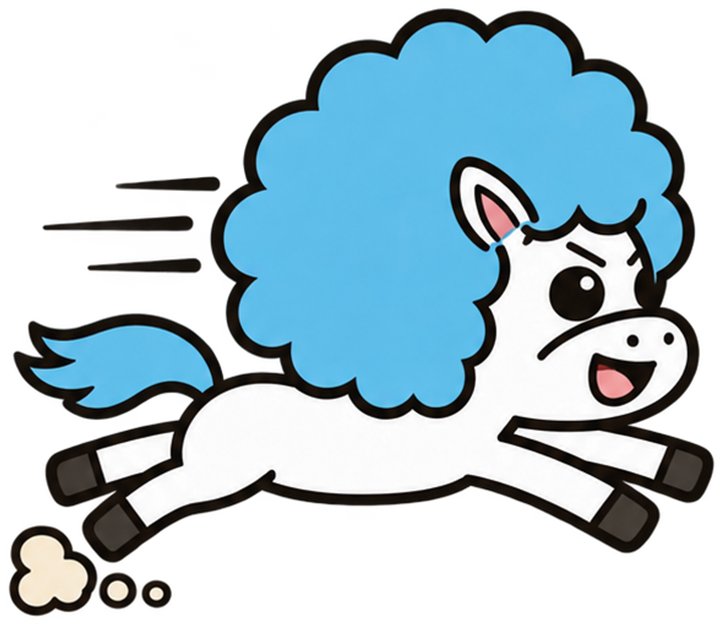
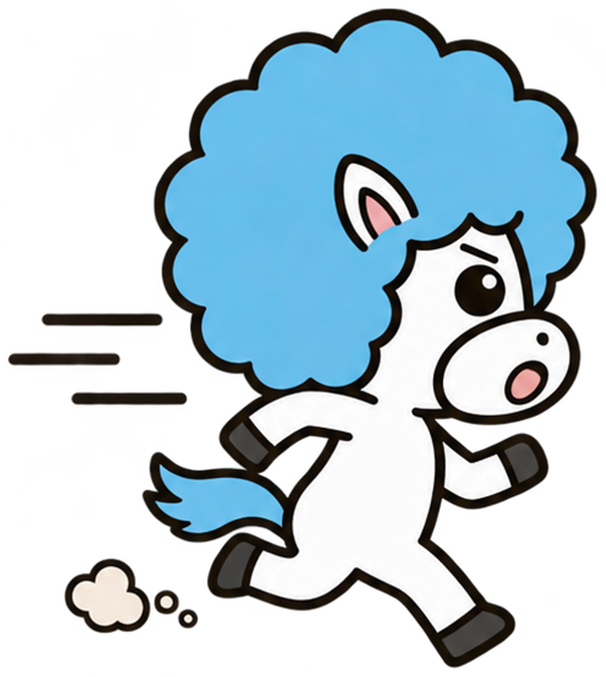
素材: キャラ設定シートを作って、生成の基準にする
生成してもらった絵が、アフワたちではない別のキャラになっていた。
原因は、指示書がキャラを文章でしか説明していなかったこと。
鼻先が前に突き出た、よくある馬の顔で描かれてしまう。

・サイトにある本物の絵から _art/ref/AFRO_MASTER.png を組み立てた。
  6キャラの顔、4キャラの立ち姿、体の作り、走る・跳ぶ・ころぶ・
  おどろく・わらう。作り直しは _art/tools/make_ref.py
・COMMON.md を、この設定シートを必ず添付する決まりに変えた。
  文章と絵が食い違ったら絵が勝つ、と明記した
・丸い頭の中に小さい口元がある顔の作りを、言葉でも足した
・キャラの色も実物に合わせて直した。クロフワは黒ではなく濃紺、
  ヤンチャは黄色で口にわらをくわえている

追い比べの馬は、形の正しい元の絵（色変え）のまま。
二足になった v2 の走りも、キャラが別物なのでまだ入れていない。

diff --git a/game/race.html b/game/race.html
@@ -261,8 +261,7 @@
   var staBar = document.getElementById('staBar');
   var staFill= document.getElementById('staFill');
 
-  /* 専用の絵ができるまでは、形の正しい元の絵を色だけ変えて使う。
-     （生成してもらった4頭は四つ足になっていたので、まだ入れていない） */
+  /* 本物のキャラの絵ができるまでは、サイトにある正しい絵を色だけ変えて使う */
   var HORSE = '../images/game/run_afuwa.webp';
   (function () { var i = new Image(); i.src = HORSE; })();
 
@@ -380,7 +379,7 @@
     for (var i = 0; i < els.length; i++) {
       var e = els[i];
       var px = (e.o.x - cam) * PPM;
-      var hw = (e.el.offsetWidth || 92) / 2;
+      var hw = (e.el.offsetWidth || 90) / 2;
       e.el.style.transform = 'translate(' + (px - hw) + 'px, 0)';
       e.el.classList.toggle('run', state === 'run');
     }

diff --git a/_art/tools/make_ref.py b/_art/tools/make_ref.py
@@ -1,0 +1,78 @@
+# -*- coding: utf-8 -*-
+u"""キャラ設定シートを、サイトにある本物の絵から組み立てる。
+   これを Codex に添付して描かせる。文章の説明だけだと別のキャラになる。
+
+   使い方:  python _art/tools/make_ref.py
+"""
+import io, os
+from PIL import Image, ImageDraw, ImageFont
+
+SITE = u'C:/Users/axlko/OneDrive/デスクトップ/アフロ馬サイト/00_サイト本体'
+W, H = 1536, 1100
+BG = (255, 255, 255, 255)
+INK = (26, 14, 22, 255)
+GREY = (120, 110, 115, 255)
+
+FONTS = [r'C:\Windows\Fonts\YuGothB.ttc', r'C:\Windows\Fonts\meiryob.ttc',
+         r'C:\Windows\Fonts\msgothic.ttc']
+
+
+def font(px):
+    for p in FONTS:
+        if os.path.exists(p):
+            try:
+                return ImageFont.truetype(p, px)
+            except Exception:
+                pass
+    raise SystemExit(u'フォントが無い')
+
+
+def put(sheet, path, box, label, d, fs=26):
+    u"""box = (x, y, w, h) の中に、縦横そのままで収める。下に名前。"""
+    im = Image.open(os.path.join(SITE, path)).convert('RGBA')
+    x, y, bw, bh = box
+    k = min(bw / float(im.width), bh / float(im.height))
+    nw, nh = max(1, int(im.width * k)), max(1, int(im.height * k))
+    im = im.resize((nw, nh), Image.LANCZOS)
+    sheet.alpha_composite(im, (int(x + (bw - nw) / 2), int(y + (bh - nh) / 2)))
+    if label:
+        d.text((x + bw / 2, y + bh + 10), label, font=font(fs), fill=INK, anchor='ma')
+
+
+sheet = Image.new('RGBA', (W, H), BG)
+d = ImageDraw.Draw(sheet)
+
+d.text((W / 2, 28), u'AFRO HORSE キャラクター設定シート', font=font(40), fill=INK, anchor='ma')
+d.text((W / 2, 80), u'この絵のデザインがすべて。顔の作り・体の形・色を、そのまま写すこと',
+       font=font(24), fill=GREY, anchor='ma')
+
+# ---- 1段目：顔 ----
+d.text((40, 130), u'顔（この丸い頭の作りが基本。鼻先は前に突き出さない）', font=font(26), fill=INK)
+heads = [('afuwa', u'アフワ'), ('buruma', u'ブルマ'), ('chafuwa', u'チャフワ'),
+         ('ginma', u'ギンマ'), ('kurofuwa', u'クロフワ'), ('yancha', u'ヤンチャ')]
+for i, (f, nm) in enumerate(heads):
+    put(sheet, u'images/face/%s.webp' % f, (40 + i * 248, 172, 220, 200), nm, d)
+
+# ---- 2段目：体 ----
+d.text((40, 440), u'体（二本脚で立つ。腕が2本、脚が2本、しっぽ）', font=font(26), fill=INK)
+put(sheet, u'images/battle/afuwa_battle.png', (40, 482, 260, 300), u'アフワ 立ち姿', d)
+put(sheet, u'images/battle/buruma_battle.png', (320, 482, 260, 300), u'ブルマ 立ち姿', d)
+put(sheet, u'images/battle/chafuwa_battle.png', (600, 482, 260, 300), u'チャフワ 立ち姿', d)
+put(sheet, u'images/battle/ginma_battle.png', (880, 482, 260, 300), u'ギンマ 立ち姿', d)
+put(sheet, u'images/maker/base.webp', (1160, 482, 300, 300), u'体の作り（色は見本）', d)
+
+# ---- 3段目：動き ----
+d.text((40, 830), u'動き（走る・跳ぶ。体は立てたまま。四つ足にはならない）', font=font(26), fill=INK)
+put(sheet, u'images/game/run_afuwa.webp', (40, 872, 260, 180), u'走る', d)
+put(sheet, u'images/game/jump_afuwa.webp', (320, 872, 260, 180), u'跳ぶ', d)
+put(sheet, u'images/game/crash_afuwa.webp', (600, 872, 260, 180), u'ころぶ', d)
+put(sheet, u'images/find/afuwa_odoroki.webp', (880, 872, 200, 180), u'おどろく', d)
+put(sheet, u'images/find/afuwa_warai.webp', (1100, 872, 200, 180), u'わらう', d)
+
+out = os.path.join(SITE, u'_art/ref')
+if not os.path.isdir(out):
+    os.makedirs(out)
+dst = os.path.join(out, u'AFRO_MASTER.png')
+sheet.convert('RGB').save(dst, 'PNG', optimize=True)
+print(u'設定シート %dx%d  %.0fKB' % (W, H, os.path.getsize(dst) / 1024.))
+

diff --git a/_art/COMMON.md b/_art/COMMON.md
@@ -10,24 +10,26 @@
 
 ## 1. 参照画像
 
-生成のとき、必ず下の絵を参照として付ける。画風と体型の基準。
+**いちばん大事：`_art/ref/AFRO_MASTER.png` を Codex に必ず添付すること。**
+文章の説明だけだと、それっぽい別のキャラが出てくる。実際に出た。
+あの設定シートがキャラのデザインそのもので、文章はおまけ。
 
 | 記号 | パス | 役割 |
 |---|---|---|
-| RUN | `images/game/run_afuwa.webp` | 走っているアフワ。**走り方はこの絵が正解**。体は立ったまま、2本脚 |
-| JUMP | `images/game/jump_afuwa.webp` | 跳んでいるアフワ。腕と脚の付きかたの基準 |
-| FACE | `images/find/afuwa_futsu.webp` ほか `images/find/*_futsu.webp` | 各キャラの顔・アフロの色の基準 |
+| **MASTER** | `_art/ref/AFRO_MASTER.png` | **キャラのデザインの基準。毎回これを添付する** |
 | ICON | `images/icon/gate.webp` | ゲームアイコンの画風・丸バッジの作りの基準 |
 | BG | `images/bg/jump.webp` | 背景の画風・色味の基準 |
 
----
+設定シートは `python _art/tools/make_ref.py` で作り直せる（サイトにある絵から組み立てている）。
 
 ## 2. COMMON（キャラの2x2シート）
 
 ```text
 Use the built-in image_gen tool. Generate ONE square image, 1536x1536, laid out as a 2x2 grid of FOUR separate poses.
 
-REFERENCE: The attached images are the authoritative model. Copy the character design and art style EXACTLY: same proportions, same colors, same line quality, same size. Do NOT redesign. Do NOT copy any text, labels or layout from the references.
+REFERENCE: The attached character sheet (AFRO_MASTER) is the authoritative model and overrides anything written below. Study it first. Copy the character design EXACTLY: the same head shape, the same muzzle, the same eyes, the same body proportions, the same colours, the same line weight. Do NOT invent a new character, do NOT redesign, do NOT "improve" it. If the words below and the sheet disagree, the sheet wins. Do NOT copy the sheet's text, labels or layout.
+
+HEAD SHAPE (people keep getting this wrong): the head is a ROUND flat-faced head seen almost straight on, with the muzzle drawn as a small soft oval INSIDE the lower part of the face. The snout does NOT stick out forward like a real horse's. The enormous afro wraps all the way around that round head.
 
 STYLE: Cute chunky hand-drawn cartoon mascot. Very thick smooth black outlines, flat colors, almost no shading. Simple, friendly, a little goofy. NOT 3D, NOT realistic, NOT detailed, NOT anime.
 
@@ -43,34 +45,36 @@ ACTION: Each pose must read instantly at phone size, as a frozen frame of a big 
 
 ## 3. CHARACTERS（キャラの指定。必要なものだけ使う）
 
-```text
-ALL AFRO HORSES: a chibi cartoon horse MASCOT that stands and moves on TWO legs like a person, NOT on four legs. Body plan: an upright rounded body, TWO short arms with simple rounded hands, TWO short legs ending in dark hooves, and a short tuft tail. The head sits straight on top of the body and its mane is one ENORMOUS round fluffy afro covering the whole top and sides of the head, far bigger than the face. Two small pointed ears poke out of the afro, a soft rounded muzzle, simple black dot eyes. Thick black outline, flat colours.
+色や形で迷ったら、文章ではなく **MASTER の絵** を見ること。
 
-NEVER draw it as a four-legged horse, a pony or a foal. It is always a two-legged mascot, like a costumed character.
+```text
+ALL AFRO HORSES: a chibi cartoon horse MASCOT that stands and moves on TWO legs like a person, NOT on four legs. Body plan: an upright rounded body, TWO short arms with simple rounded hands, TWO short legs ending in dark hooves, and a short tuft tail. The head sits on top and is ROUND and flat-faced, with a small soft oval muzzle inside the lower face and two tiny nostril dots; the snout never sticks out forward. The mane is one ENORMOUS round fluffy afro wrapping the whole head, far bigger than the face, drawn as soft overlapping bumps. Two small pointed ears poke out of the afro. Simple black dot eyes. Thick even black outline, flat colours, almost no shading.
+
+NEVER draw it as a four-legged horse, a pony or a foal.
 ```
 
 ```text
-AFUWA (アフワ, main character): cream / pale ivory body, dark chocolate-brown afro and tail, pink cheek dots, gentle worried-but-trying face.
+AFUWA (アフワ, the main character): cream / pale ivory body and face, dark chocolate-brown afro and tail, pink round cheek dots, light brown muzzle, worried droopy eyebrows and a small frown. Timid but trying.
 ```
 
 ```text
-BURUMA (ブルマ): white body, bright sky-blue afro and tail, sharp confident eyebrows, cheeky grin.
+BURUMA (ブルマ): pure white body and face, bright sky-blue afro and tail, sharp angry-looking eyebrows, open cheeky grin. Cocky.
 ```
 
 ```text
-CHAFUWA (チャフワ): light milk-brown body with a cream muzzle, reddish-brown (terracotta) afro and tail, round happy open-mouth smile.
+CHAFUWA (チャフワ): warm milk-brown body, cream muzzle, reddish-brown terracotta afro and tail, big round open-mouth smile. Cheerful.
 ```
 
 ```text
-GINMA (ギンマ): pale off-white body with a grey muzzle, silver-grey afro and tail, heavy-lidded half-closed eyes, cool unimpressed face.
+GINMA (ギンマ): pale off-white body, grey muzzle, silver-grey afro and tail, heavy-lidded half-closed eyes and a flat mouth. Cool and unimpressed.
 ```
 
 ```text
-KUROFUWA (クロフワ): dark grey body, black afro and tail, serious stern face.
+KUROFUWA (クロフワ): dark grey body with a lighter grey muzzle, very dark NAVY-BLUE afro and tail (not pure black), thick angry eyebrows, stern frown. The scary one.
 ```
 
 ```text
-YANCHA (ヤンチャ): tan body, orange afro and tail, wild toothy grin, troublemaker face.
+YANCHA (ヤンチャ): cream body, GOLDEN-YELLOW afro and tail, narrowed mischievous eyes, a straw or grass stalk held in the corner of its mouth (allowed). The troublemaker.
 ```
 
 ## 4. COMMON_BG（背景。分割しない1枚もの）

diff --git a/_art/mori/Codex生成指示_mori.md b/_art/mori/Codex生成指示_mori.md
@@ -4,6 +4,8 @@
 パスはすべて `00_サイト本体/` からの相対パス。
 
 - 共通ブロック（COMMON / CHARACTERS / COMMON_BG / COMMON_ICON）と参照画像は `_art/COMMON.md` のものを使う。
+- **`_art/ref/AFRO_MASTER.png` を必ず添付してから描くこと。** あれがキャラのデザインの正解で、
+  文章の説明より優先。添付せずに描くと、別のキャラになる。
 - 保存先は `_art/mori/sheets/`（フォルダがなければ作る）。
 - 上書きしない。毎回できあがりを確かめて、ずれていたら最大2回まで作り直す。
 - **全部終わったら、保存したファイルのフルパスを一覧で報告すること。**

diff --git a/_art/race/Codex生成指示_race.md b/_art/race/Codex生成指示_race.md
@@ -4,6 +4,8 @@
 パスはすべて `00_サイト本体/` からの相対パス。
 
 - 共通ブロック（COMMON / CHARACTERS / COMMON_BG / COMMON_ICON）と参照画像は `_art/COMMON.md` のものを使う。
+- **`_art/ref/AFRO_MASTER.png` を必ず添付してから描くこと。** あれがキャラのデザインの正解で、
+  文章の説明より優先。添付せずに描くと、別のキャラになる。
 - 保存先は `_art/race/sheets/`（フォルダがなければ作る）。
 - 上書きしない。毎回できあがりを確認して、ずれていたら最大2回まで作り直す。
 - **全部終わったら、保存したファイルのフルパスを一覧で報告すること。**
